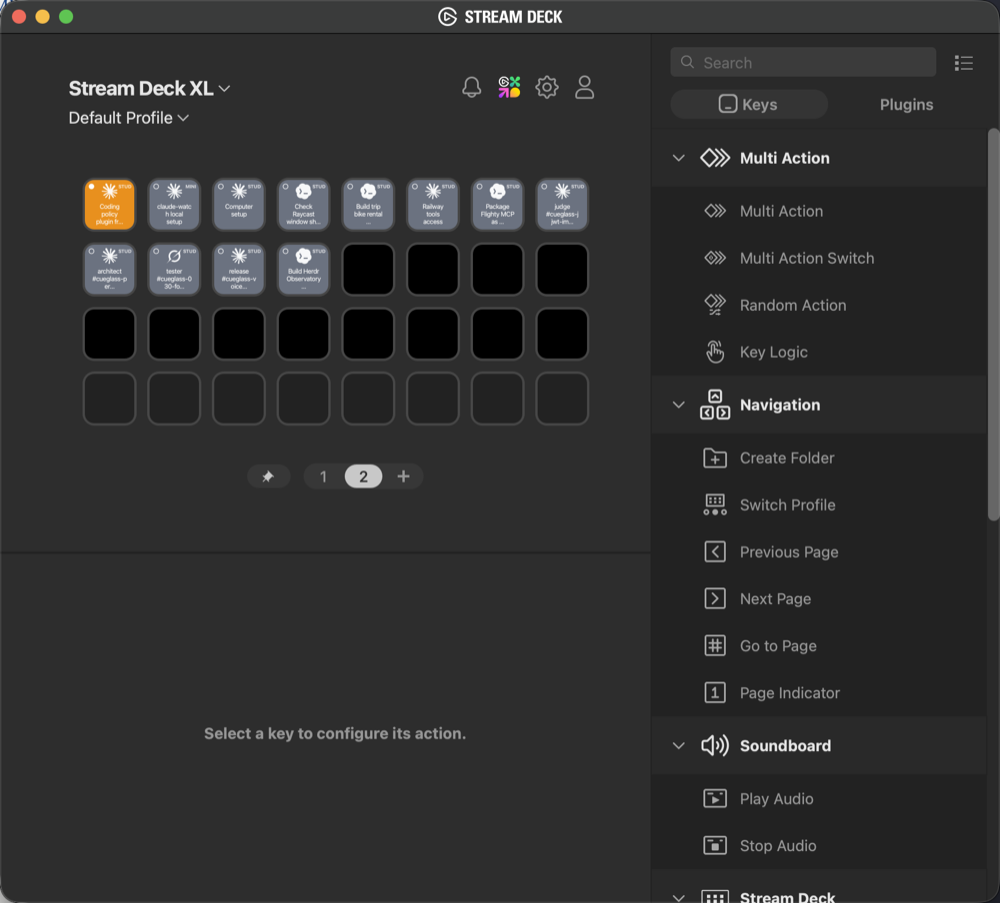
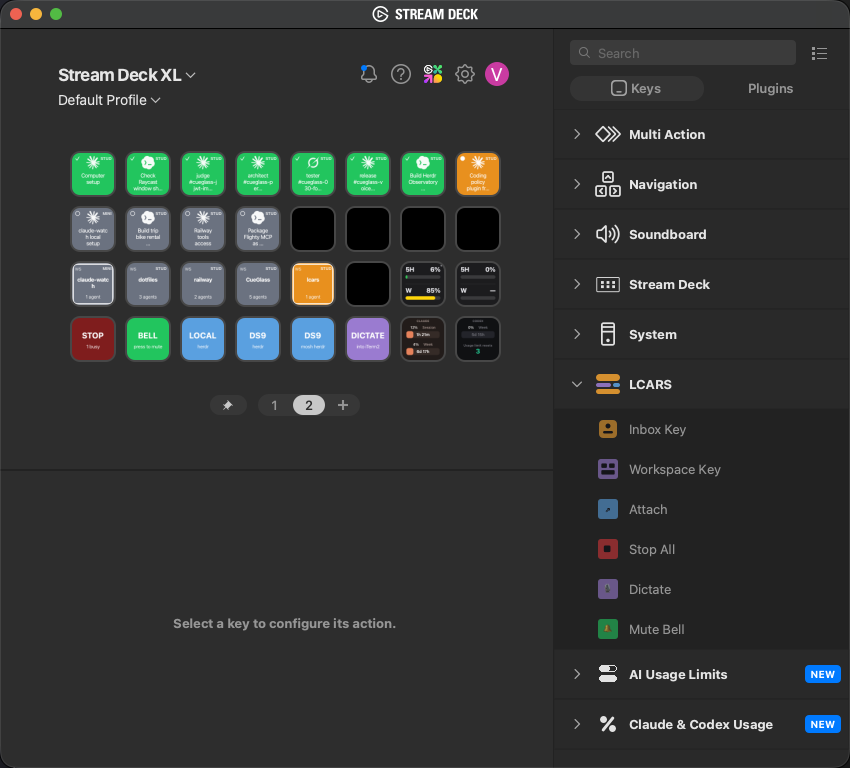
Add Plus and MK.2 screenshots, refresh the XL one

diff --git a/README.md b/README.md
@@ -11,9 +11,17 @@ Recon notes on the Herdr socket API, with recorded frames as test fixtures: [doc
 
 ## Screenshots
 
-Stream Deck XL, agent wall page: one key per agent across both hosts (host tag top-right, agent logo, state colour, pane title).
+Stream Deck XL, agent wall page: one key per agent across both hosts (host tag top-right, agent logo, state colour, pane title), workspace keys, the global keys and the third-party usage keys.
 
 ![Stream Deck app showing the XL LCARS page](docs/images/stream-deck-xl-wall.png)
+
+Stream Deck +: eight paged Inbox Keys, the fleet bar on the touch strip (one block per host, page and effort read-outs) and the four dials.
+
+![Stream Deck app showing the Plus LCARS page](docs/images/stream-deck-plus.png)
+
+15-key MK.2, travel page: six Inbox Keys, Attach keys for the local Herdr and the remote host over mosh and tmux, Dictate, Stop All and Mute Bell.
+
+![Stream Deck app showing the MK.2 LCARS travel page](docs/images/stream-deck-mk2-travel.png)
 
 ## Status
 
